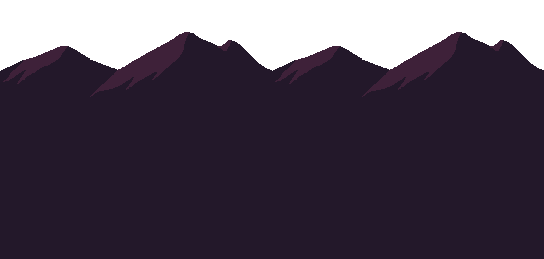
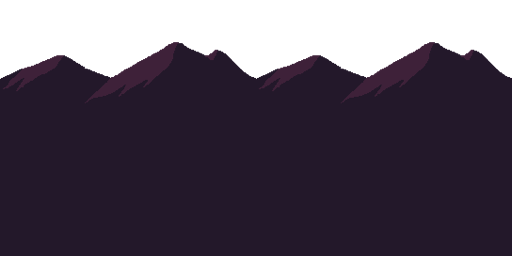
Parallax!

Changed region(s): [[0.0, 0.125, 1.0, 0.375]]

diff --git a/public_html/src/MyGame/Background.js b/public_html/src/MyGame/Background.js
@@ -1,0 +1,105 @@
+/* 
+ * To change this license header, choose License Headers in Project Properties.
+ * To change this template file, choose Tools | Templates
+ * and open the template in the editor.
+ */
+
+function Background( skyTexture, mountainTexture, mountainsTexture, trees1Texture, trees2Texture)
+{
+    this.xPosition = 0;
+    
+    this.sky = new TextureRenderable(skyTexture);
+    this.sky.getXform().setPosition(0, 0);
+    this.sky.getXform().setHeight(200 / 1.333333);
+    this.sky.getXform().setWidth(200);
+    
+    this.mountain = new TextureRenderable(mountainTexture);
+    this.mountain.getXform().setPosition(100,-10);
+    this.mountain.getXform().setHeight(200 / 1.33333);
+    this.mountain.getXform().setWidth(200);
+    
+    this.mountains = new TextureRenderable(mountainsTexture);
+    this.mountains.getXform().setPosition(100,-30);
+    this.mountains.getXform().setHeight(200 / 1.33333);
+    this.mountains.getXform().setWidth(200);
+   
+    this.trees1 = new TextureRenderable(trees1Texture);
+    this.trees1.getXform().setPosition(100,-50);
+    this.trees1.getXform().setHeight(100);
+    this.trees1.getXform().setWidth(200);
+    
+    this.trees2 = new TextureRenderable(trees2Texture);
+    this.trees2.getXform().setPosition(100,-50);
+    this.trees2.getXform().setHeight(100);
+    this.trees2.getXform().setWidth(200);
+    
+    
+    
+}
+
+
+Background.prototype.draw = function ( camera )
+{
+    this.sky.draw(camera);
+    
+    this._wrapTexture(camera, this.mountain);
+    
+    this._wrapTexture(camera, this.mountains);
+    
+    this._wrapTexture(camera, this.trees1);
+    
+    this._wrapTexture(camera, this.trees2);
+};
+
+Background.prototype._wrapTexture = function (camera, renderable)
+{
+    renderable.draw(camera);
+    
+    var width = renderable.getXform().getWidth();
+    var height = renderable.getXform().getHeight();
+    
+    var startX = renderable.getXform().getPosition()[0];
+    var startY = renderable.getXform().getPosition()[1];
+    
+    var worldLeftBound = -200 / 2;
+    var worldRightBound = 200 / 2;
+    
+    var currentX = startX;
+    
+    while(currentX - (width / 2) > worldLeftBound)
+    {
+        currentX -= width;
+        
+        renderable.getXform().setPosition(currentX, startY);
+        
+        renderable.draw(camera);
+    }
+    
+    renderable.getXform().setPosition(startX, startY);
+    
+    currentX = startX;
+    
+    while(currentX + (width /2) < worldRightBound)
+    {
+        currentX += width;
+        
+        renderable.getXform().setPosition(currentX, startY);
+        
+        renderable.draw(camera);
+    }
+    
+    renderable.getXform().setPosition(startX, startY);
+};
+
+Background.prototype.update = function ()
+{
+    this.mountain.getXform().setPosition(-this.xPosition / 10 % 200, 0);
+    
+    this.mountains.getXform().setPosition(-this.xPosition / 7 % 200, -30);
+    
+    this.trees1.getXform().setPosition(-this.xPosition / 4 % 200, -40);
+    
+    this.trees2.getXform().setPosition(-this.xPosition * 2 % 200, -24);
+    
+    this.xPosition++;
+};

diff --git a/public_html/src/MyGame/MyGame.js b/public_html/src/MyGame/MyGame.js
@@ -36,6 +36,8 @@ function MyGame()
     this.dyePacks = [];
     
     this.patrolSet = null;
+    
+    this.background = null;
   
 }
 gEngine.Core.inheritPrototype(MyGame, Scene);
@@ -61,18 +63,8 @@ MyGame.prototype.initialize = function ()
     this.hero = new Hero(this.spriteSheet);
     
     this.patrolSet = new PatrolSet(this.spriteSheet, 200);
-    
-    
-    this.sky = new TextureRenderable(this.skyTexture);
-    this.sky.getXform().setPosition(0, 0);
-    this.sky.getXform().setHeight(200 / 1.333333);
-    this.sky.getXform().setWidth(200);
-    
-    this.mountain = new TextureRenderable(this.mountainTexture);
-    this.mountain.getXform().setPosition(0,-10);
-    this.mountain.getXform().setHeight(200 / 1.33333);
-    this.mountain.getXform().setWidth(200);
-    
+
+    this.background = new Background(this.skyTexture, this.mountainTexture, this.mountainsTexture, this.trees1Texture, this.trees2Texture);
 };
 
 MyGame.prototype.unloadScene = function ()
@@ -95,8 +87,7 @@ MyGame.prototype.draw = function ()
     this.mCamera.setupViewProjection();
     
     
-    this.sky.draw( this.mCamera );
-    this.mountain.draw( this.mCamera );
+    this.background.draw(this.mCamera);
     
     
     
@@ -110,20 +101,6 @@ MyGame.prototype.draw = function ()
     this.testDyePack.draw(this.mCamera);
     
     this.patrolSet.draw(this.mCamera);
-    
-    
-};
-
-MyGame.prototype._wrapTexture = function (camera, renderable)
-{
-    var width = renderable.getXform().getWidth();
-    var height = renderable.getXform().getHeight();
-    
-    var startX = renderable.getXform().getPosition()[0];
-    var startY = renderable.getXform().getPosition()[1];
-    
-    var worldLeftBound = -200 / 2;
-    var worldRightBound = 200 / 2;
     
     
 };
@@ -173,6 +150,8 @@ MyGame.prototype.update = function ()
     this.testDyePack.update();
     this.hero.update();
     this.patrolSet.update();
+    
+    this.background.update();
     
     document.getElementById("num_dyepacks").innerHTML = this.dyePacks.length;
 };

diff --git a/public_html/index.html b/public_html/index.html
@@ -64,6 +64,7 @@
         <script type="text/javascript" src="src/MyGame/PatrolSet.js"></script>
         <script type="text/javascript" src="src/MyGame/ZoomCam.js"></script>
         <script type="text/javascript" src="src/MyGame/ZoomCamSystems.js"></script>
+        <script type="text/javascript" src="src/MyGame/Background.js"></script>
         
     </head>
 
